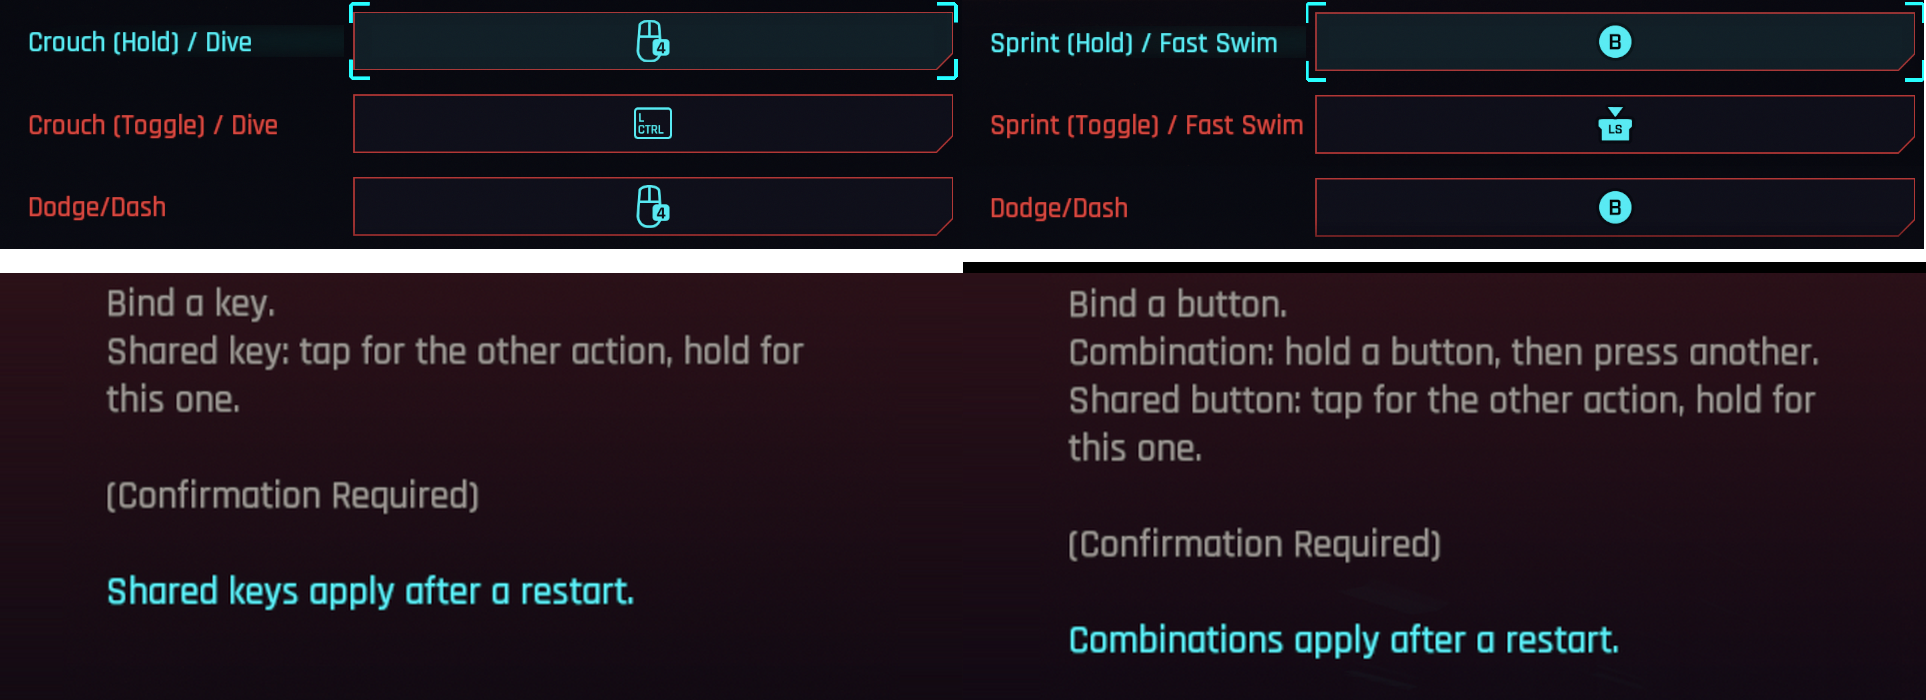
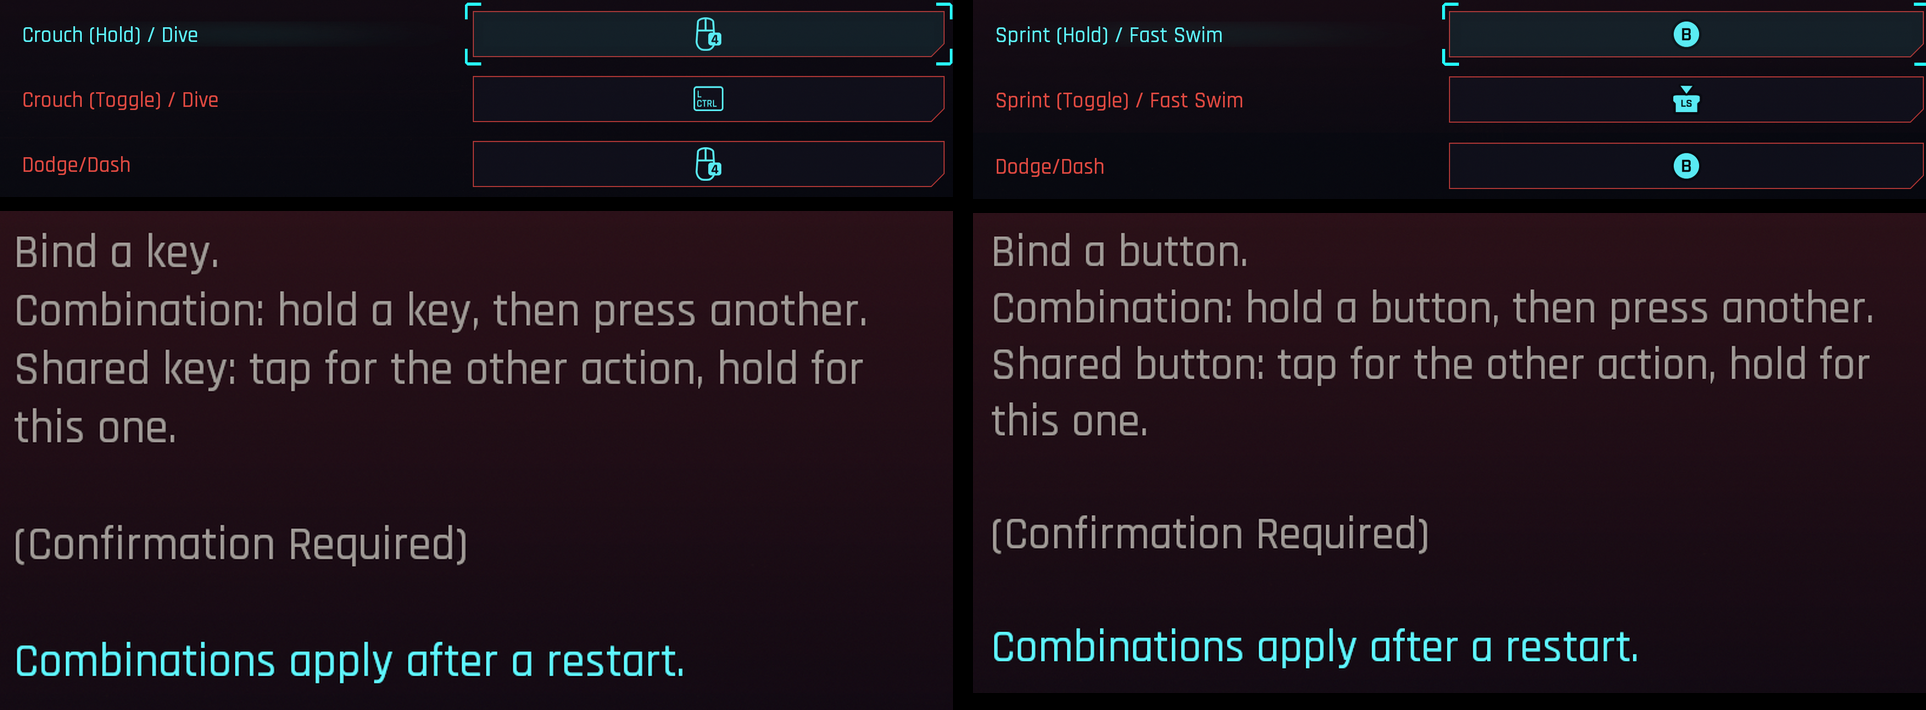
Unified Keybinds 2.0.2: conflict popup only for new conflicts, side panel conflict overview
- The popup shows only when an applied key change makes a new conflict and names what it conflicts with.
- Side panel: the selected key's conflicts and shared keys under its key icon, every conflicting key below.
- Fix: closing the popup with Enter or A started binding the selected entry.

diff --git a/src/Main.cpp b/src/Main.cpp
@@ -1708,7 +1708,7 @@ RED4EXT_C_EXPORT void RED4EXT_CALL Query(RED4ext::v1::PluginInfo* aInfo)
 {
     aInfo->name = L"Mod Keybinds Menu";
     aInfo->author = L"Elias";
-    aInfo->version = RED4EXT_V1_SEMVER(2, 0, 1);
+    aInfo->version = RED4EXT_V1_SEMVER(2, 0, 2);
     aInfo->runtime = RED4EXT_V1_RUNTIME_VERSION_LATEST;
     aInfo->sdk = RED4EXT_V1_SDK_VERSION_CURRENT;
 }

diff --git a/README.md b/README.md
@@ -68,9 +68,9 @@ The Control Scheme screen shows your bindings. Defaults, then Crouch and Dodge, 
 
   ![Crouch (Hold) and Dodge/Dash on Mouse 4, Sprint (Hold) and Dodge on B, with their side panels](screenshots/shared-key.png)
 
-- Conflict warning: when two actions that react at the same time share a key or button, a popup lists the keys, and each entry's side panel lists them under Conflicts with. A key shared by actions that are never active at the same time (Jump and a map's Track Waypoint on Space) is no conflict: the side panel lists it under Shared with, and the popup leaves it out.
+- Conflict warning: when you apply a key or button that two actions reacting at the same time now share, a popup names the action and what it conflicts with. Other settings don't bring it up. The side panel lists what the selected key conflicts with and is shared with, then every conflicting key of the device in view. A key shared by actions that are never active at the same time (Jump and a map's Track Waypoint on Space) is no conflict: the side panel lists it under Is shared with, and the popup leaves it out.
 
-  ![The conflict popup, and an entry's side panel with what it conflicts with and what it shares its key with](screenshots/conflict.png)
+  ![The conflict popup after binding Holster weapon to V, and its side panel: what V conflicts with, what it is shared with, and every conflicting key](screenshots/conflict.png)
 
 - A changed key applies right away, also for mods without a Mod Settings option.
 - Unbind any entry, vanilla or mod, keyboard or controller: point at it and press X (Square on a controller), shown in the hints. It stays unbound across save loads, new games and restarts; Defaults brings the key back. [Allow Unbound Actions](https://www.nexusmods.com/cyberpunk2077/mods/11429) is no longer needed, and still works alongside.
@@ -151,7 +151,7 @@ For nicer names than the generated ones, ship `r6/config/modkeybinds/<YourMod>.j
 - Unbinding sets an entry to `IK_None`, the game's value for an action without a key, which the plugin keeps in `keys.json` as the player's choice. In the mappings an unbound row gets a key no device sends, one no other row of the mapping has: the game keeps only one of two rows with the same key, which lost an action's key when its key and its button were both unbound. An entry with no stored key was never set and gets the mod's key. The game won't keep the menu's changes while an action has no key (`IsBlockedByActionWithoutAssignedKey`); the scripts wrap that method rather than replace it, so Allow Unbound Actions, which replaces it, still compiles alongside. The Unbind key is the game's `controller_settings` action (X, Square), which does nothing on the Key Bindings tab.
 - Defaults resets an entry to the key the game knows for it, which it only knows for its own actions, so the scripts set mod entries to the mod's key.
 - Shared keys apply during play on both devices: every (Hold) action that may share gets its hold rule when the game starts (taking every event while unshared), and so does every action that may give up its hold for one (Call Vehicle, Jump, ...) or, for Sprint (Toggle), its events; the plugin switches the keyboard and controller sides of these rules when a key changes. A controller entry without a default button has a row with a key no device sends, so a button bound later works at once.
-- Conflicts: two entries on one key count when their actions are in one gameplay context (or one of them is read by the mod itself) and act in the same section of the game (its `Settings*` contexts: on foot, vehicle, menus, general, braindance; a mod's action takes the section most of the game's actions in its contexts have), at least one is a mod's entry or both are entries for game actions, and they are not a (Hold) entry sharing by design. Every other pair on one key is a shared binding. The popup lists conflicts for the device in view.
+- Conflicts: two entries on one key count when their actions are in one gameplay context (or one of them is read by the mod itself) and act in the same section of the game (its `Settings*` contexts: on foot, vehicle, menus, general, braindance; a mod's action takes the section most of the game's actions in its contexts have), at least one is a mod's entry or both are entries for game actions, and they are not a (Hold) entry sharing by design. Every other pair on one key is a shared binding. The popup names conflicts a key change applied just now makes; the side panel lists all of them for the device in view.
 - Game controller keys are stored per control scheme (`_schemes` in `keys.json`), by the plugin as they are set: a settings write right after a scheme change still holds the previous scheme's keys. A scheme change makes the entries load that scheme's keys (`ModKeybindsPad.FollowScheme`).
 - Classic scheme: the game counts the dodge's double tap itself and misses it on a button that also has a hold (the press is held back and arrives with the release). With Dodge/Dash moved off its default button, the plugin adds a plain action on the dodge's button and the scripts count the double tap with the game's timing (each press up to 0.2 s). The default button is left to the game.
 - Dynamic scheme: the game makes Crouch (Toggle) a hold on the controller so B can dodge on a tap. With crouch on another button than the dodge, the plugin sets it to react to a tap.

diff --git a/CHANGELOG.md b/CHANGELOG.md
@@ -1,5 +1,11 @@
 # Changelog
 
+## 2.0.2 (2026-11-14)
+
+- The conflict popup shows only when an applied key change makes a new conflict, and names the action, its key and what it conflicts with. Applying other settings or opening Key Bindings no longer brings it up.
+- Side panel: the selected key's conflicts and shared keys under its key icon, then every conflicting key of the device in view below a divider. Key icons in the panel are drawn in the menu's cyan.
+- Fix: closing the mod's popup with Enter or A started binding the selected entry, so it could end up on Enter.
+
 ## 2.0.1 (2026-11-14)
 
 - Fix: Sprint, Scan and other (Hold) actions reacted late on the keyboard, or not to a tap, when a mod or an Input Loader edit used the same key (since 2.0.0). The (Hold) action waited for a long press. On the keyboard only the game's own key binding options share a key again, as in 1.8.2.
